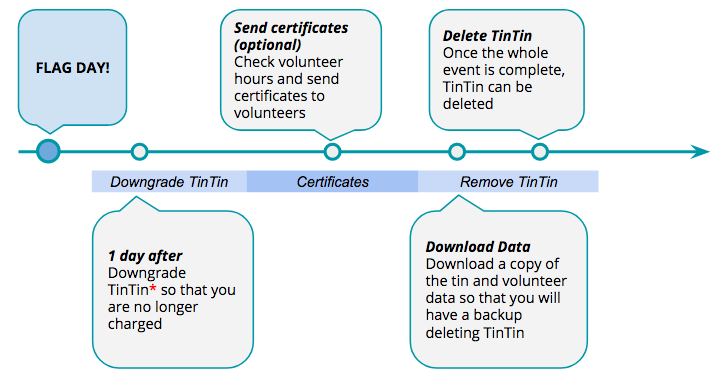
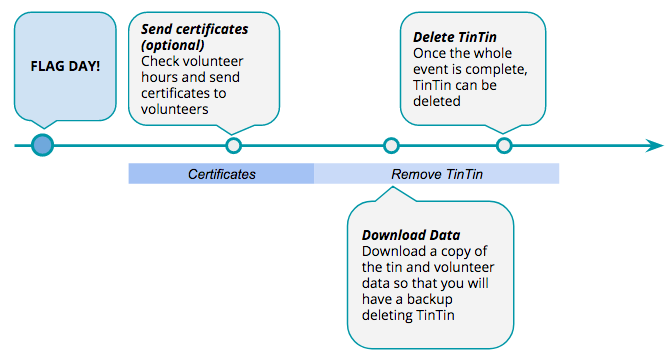
Created 2 versions of timeline - one for mobile one for web

diff --git a/css/main.css b/css/main.css
@@ -1,1 +1,1 @@
-header{position:relative;width:100%;min-height:auto;overflow-y:hidden;background:url(../img/header_bg.png),#13B09B;background-size:100%;color:#fff}header .header-content{padding:100px 0 50px}section.bg-primary{background:#13B09B}.navbar-default .nav>li.active>a,.navbar-default .nav>li.active>a:focus{color:#13B09B!important;background-color:transparent}.navbar-default .navbar-header .navbar-brand{color:#13B09B}section.features .section-heading{margin-bottom:50px}section.features .feature-item{max-width:none}section.features .feature-item i{font-size:30px;background:#13B09B;-webkit-background-clip:text;-webkit-text-fill-color:transparent}section.features .feature-item .text-muted{text-align:center;font-size:16px}@media (min-width:992px){section.features .feature-item{max-width:300px}section.features .feature-item .text-muted{text-align:left;font-size:16px}section.cost .feature-item .icon{text-align:right}section.cost .feature-item .text{text-align:left}}#howitworks .section-heading{margin-bottom:20px}.youtubevideowrap{width:80%;max-width:640px;margin:0 auto 55px}.video-container{position:relative;padding-bottom:50%;padding-top:30px;height:0;overflow:hidden;max-width:600px;max-height:400px;margin:auto}.video-container embed,.video-container iframe,.video-container object{position:absolute;top:0;left:0;width:100%;height:100%;max-width:600px;max-height:400px}#timeline .img-responsive{margin:auto}#signup{color:#13B09B;margin-top:50px}#signup.active,#signup:active,#signup:focus,#signup:hover{color:#fff;background-color:#13B09B;border-color:#13B09B}section.cost .section-heading{margin-bottom:50px}section.cost .feature-item i{font-size:30px;background:#fff;-webkit-background-clip:text;-webkit-text-fill-color:transparent}#vwos .section-heading{margin-bottom:50px}#vwos .logos img{height:70px;margin:20px}.btn-outline.active,.btn-outline:active,.btn-outline:focus,.btn-outline:hover{color:#000;background-color:#fff;border-color:#fff}
+.web-version{display:none}.mobile-version{display:block}@media (min-width:992px){section.features .feature-item{max-width:300px}section.features .feature-item .text-muted{text-align:left;font-size:16px}section.cost .feature-item .icon{text-align:right}section.cost .feature-item .text{text-align:left}.web-version{display:block}.mobile-version{display:none}}header{position:relative;width:100%;min-height:auto;overflow-y:hidden;background:url(../img/header_bg.png),#13B09B;background-size:100%;color:#fff}header .header-content{padding:100px 0 50px}section.bg-primary{background:#13B09B}.navbar-default .nav>li.active>a,.navbar-default .nav>li.active>a:focus{color:#13B09B!important;background-color:transparent}.navbar-default .navbar-header .navbar-brand{color:#13B09B}section.features .section-heading{margin-bottom:50px}section.features .feature-item{max-width:none}section.features .feature-item i{font-size:30px;background:#13B09B;-webkit-background-clip:text;-webkit-text-fill-color:transparent}section.features .feature-item .text-muted{text-align:center;font-size:16px}#howitworks .section-heading{margin-bottom:20px}.youtubevideowrap{width:80%;max-width:640px;margin:0 auto 55px}.video-container{position:relative;padding-bottom:50%;padding-top:30px;height:0;overflow:hidden;max-width:600px;max-height:400px;margin:auto}.video-container embed,.video-container iframe,.video-container object{position:absolute;top:0;left:0;width:100%;height:100%;max-width:600px;max-height:400px}#timeline .img-responsive{margin:auto}#signup{color:#13B09B;margin-top:50px}#signup.active,#signup:active,#signup:focus,#signup:hover{color:#fff;background-color:#13B09B;border-color:#13B09B}section.cost .section-heading{margin-bottom:50px}section.cost .feature-item i{font-size:30px;background:#fff;-webkit-background-clip:text;-webkit-text-fill-color:transparent}#vwos .section-heading{margin-bottom:50px}#vwos .logos img{height:70px;margin:20px}.btn-outline.active,.btn-outline:active,.btn-outline:focus,.btn-outline:hover{color:#000;background-color:#fff;border-color:#fff}

diff --git a/less/main.less b/less/main.less
@@ -1,5 +1,45 @@
 @theme-primary:    #13B09B;
 
+
+
+/* Mobile/Web Manipulation */
+
+.web-version{
+	display:none;
+}
+
+.mobile-version{
+	display:block;
+}
+
+@media (min-width: 992px){
+	section.features .feature-item{
+		max-width:300px;
+
+		.text-muted{
+			text-align: left;
+			font-size:16px;
+		}
+	}
+
+	section.cost .feature-item {
+		.icon{
+			text-align:right;
+		}
+		.text{
+			text-align:left;
+		}
+	}
+
+	.web-version{
+		display:block;
+	}
+
+	.mobile-version{
+		display:none;
+	}
+}
+
 /* Header */
 header {
     position: relative;
@@ -52,26 +92,6 @@ section.features{
 		}
 	}
 
-}
-
-@media (min-width: 992px){
-	section.features .feature-item{
-		max-width:300px;
-
-		.text-muted{
-			text-align: left;
-			font-size:16px;
-		}
-	}
-
-	section.cost .feature-item {
-		.icon{
-			text-align:right;
-		}
-		.text{
-			text-align:left;
-		}
-	}
 }
 
 /* How it Works section */

diff --git a/index.html b/index.html
@@ -269,7 +269,17 @@
             </div>
             <!-- -->
 
-            <div class="row container-fluid">
+            <div class="row container-fluid web-version">
+                <div class="col-md-12">
+                    <div class="text-center">
+                        <div class="row">
+                            <img class="img-responsive" src="img/timeline-fullflagday.png" />
+                        </div>
+                    </div>
+                </div>
+             </div>
+
+            <div class="row container-fluid mobile-version">
                 <div class="col-md-6">
                     <div class="container-fluid text-center">
                         <h3>Before Flag Day</h3>
